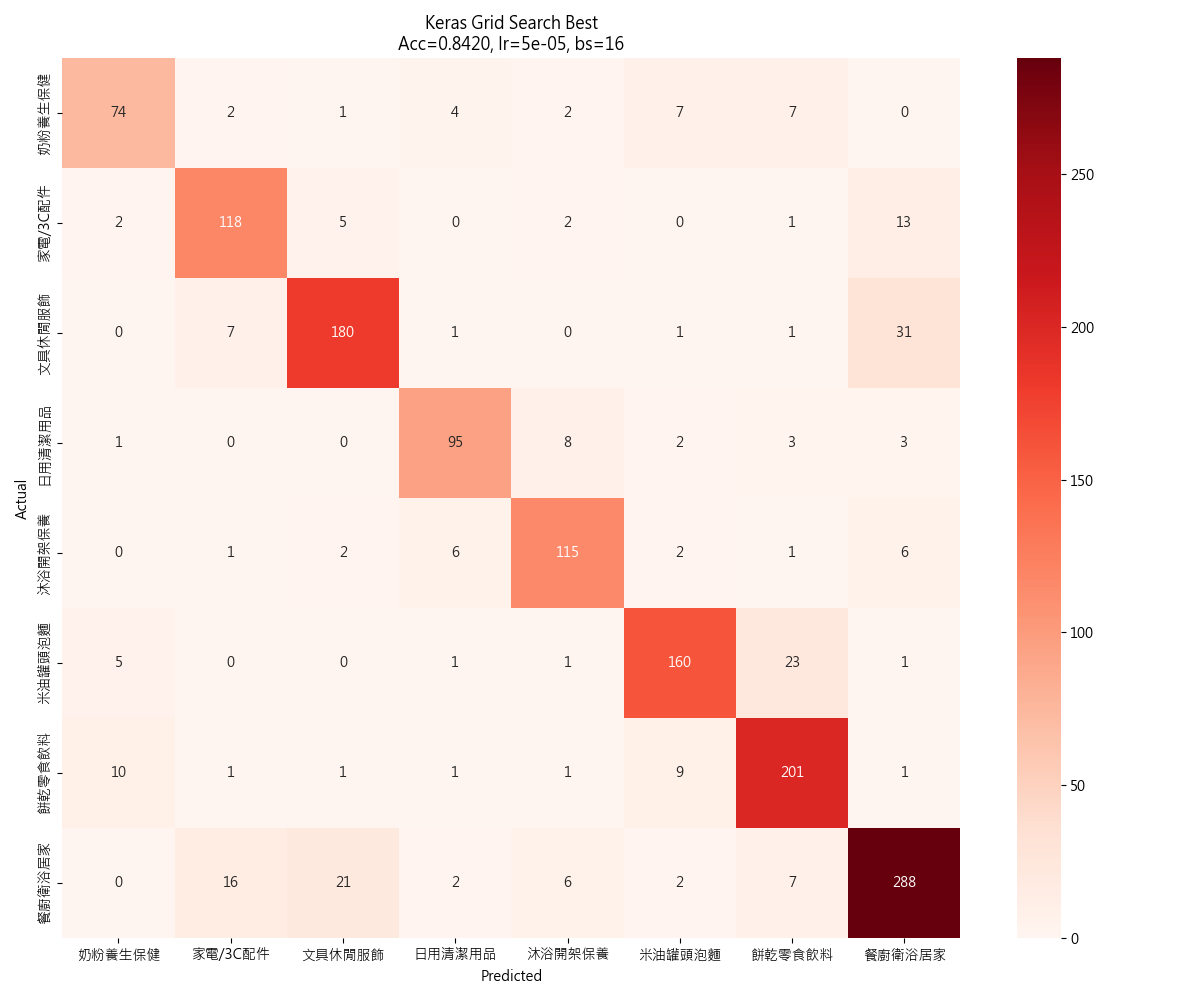
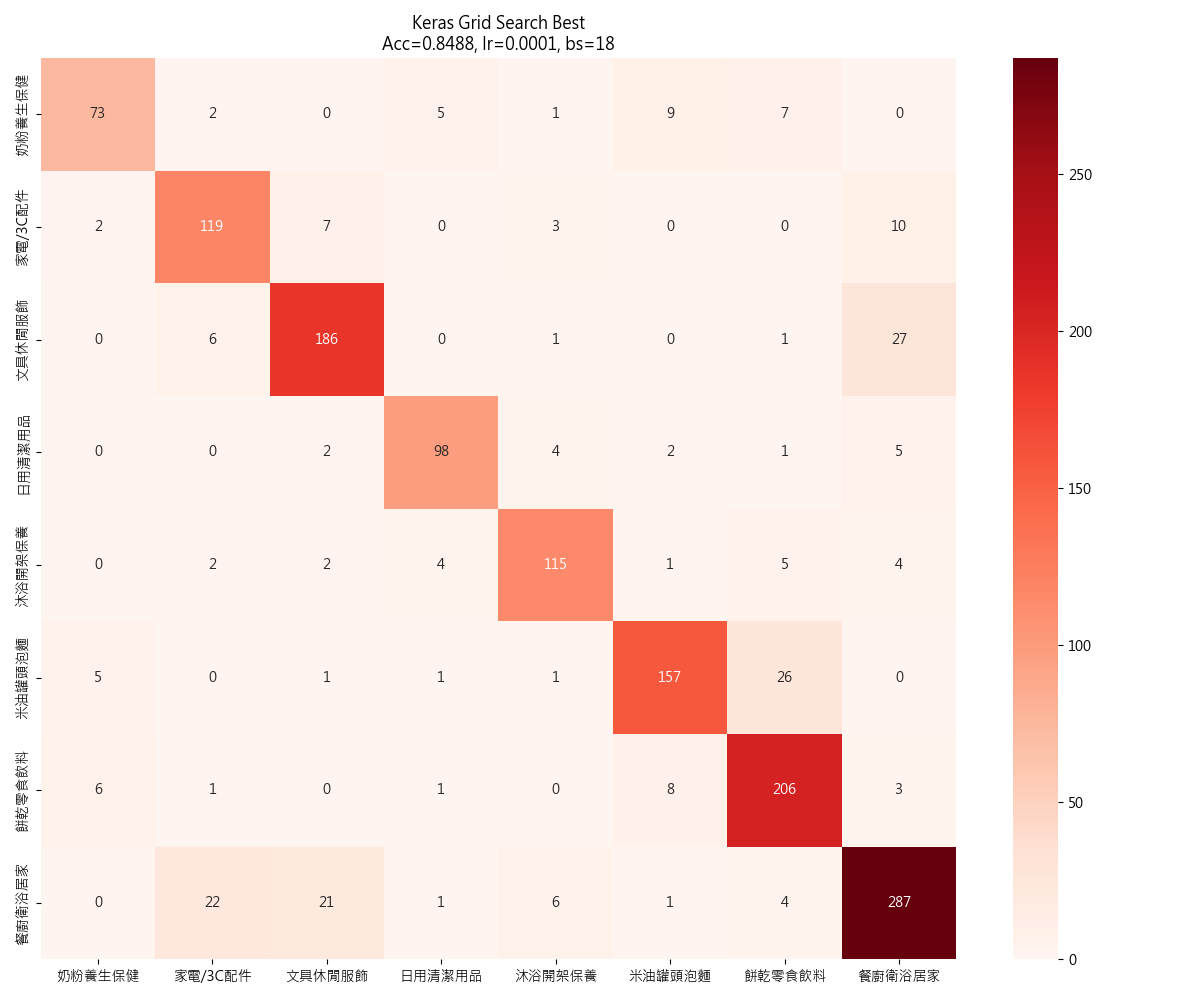
feat: 調整學習率與批次大小，更新模型訓練參數以提升準確度

diff --git a/src/semester-project/08_train_neural_network.pytorch.py b/src/semester-project/08_train_neural_network.pytorch.py
@@ -152,8 +152,8 @@ def main():
     # ==================== 4. 訓練模型 ====================
     print("\n步驟 4: 開始訓練")
 
-    lr = 0.00025
-    bs = 20
+    lr = 0.0001
+    bs = 18
 
     print(f"\n--- Training: Seed={TARGET_SEED}, lr={lr}, bs={bs} ---")
 
